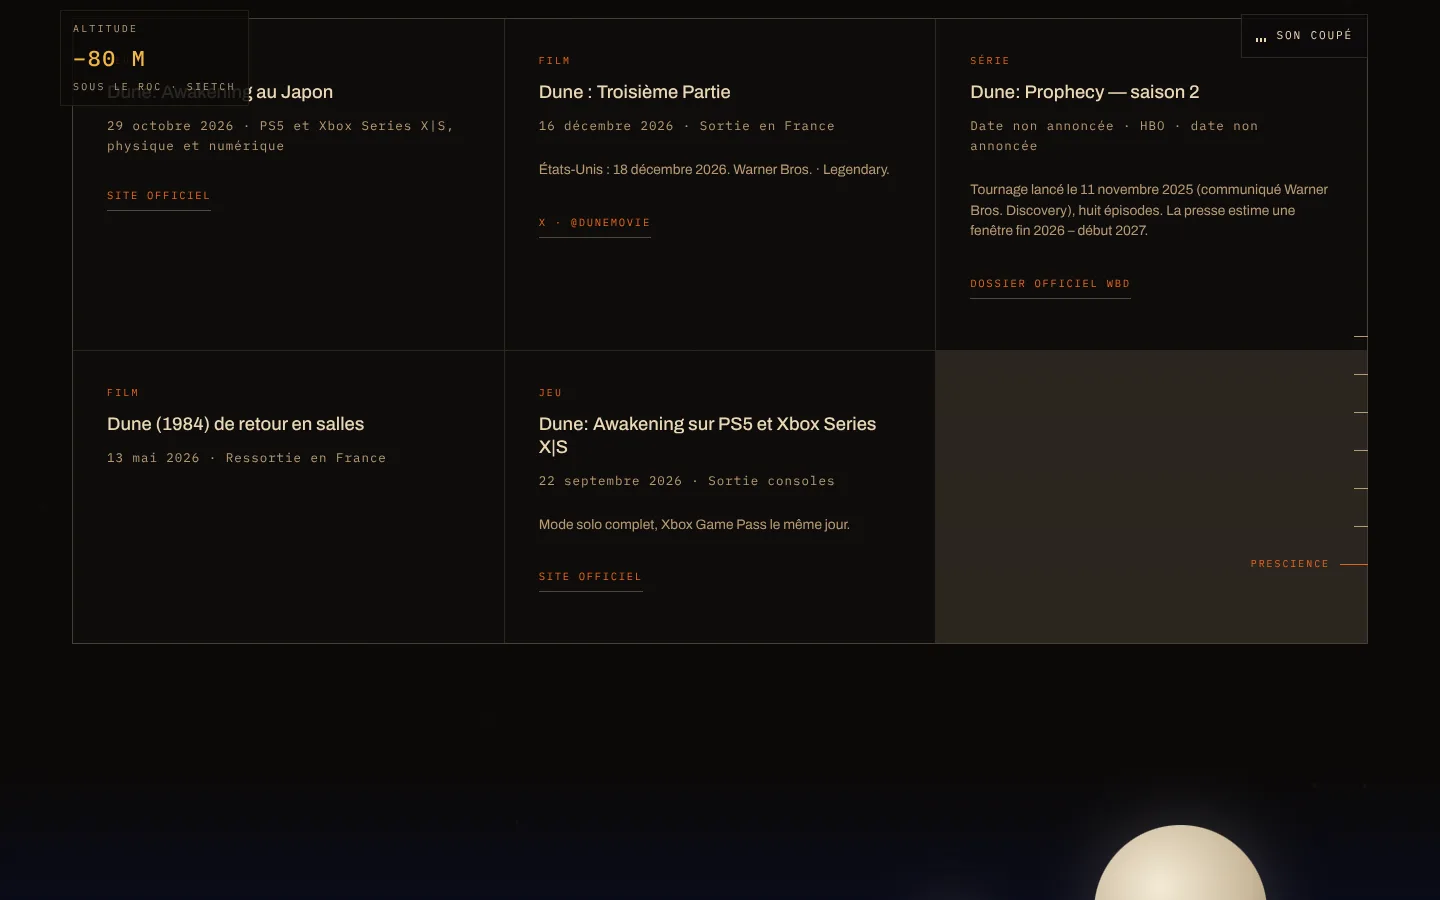
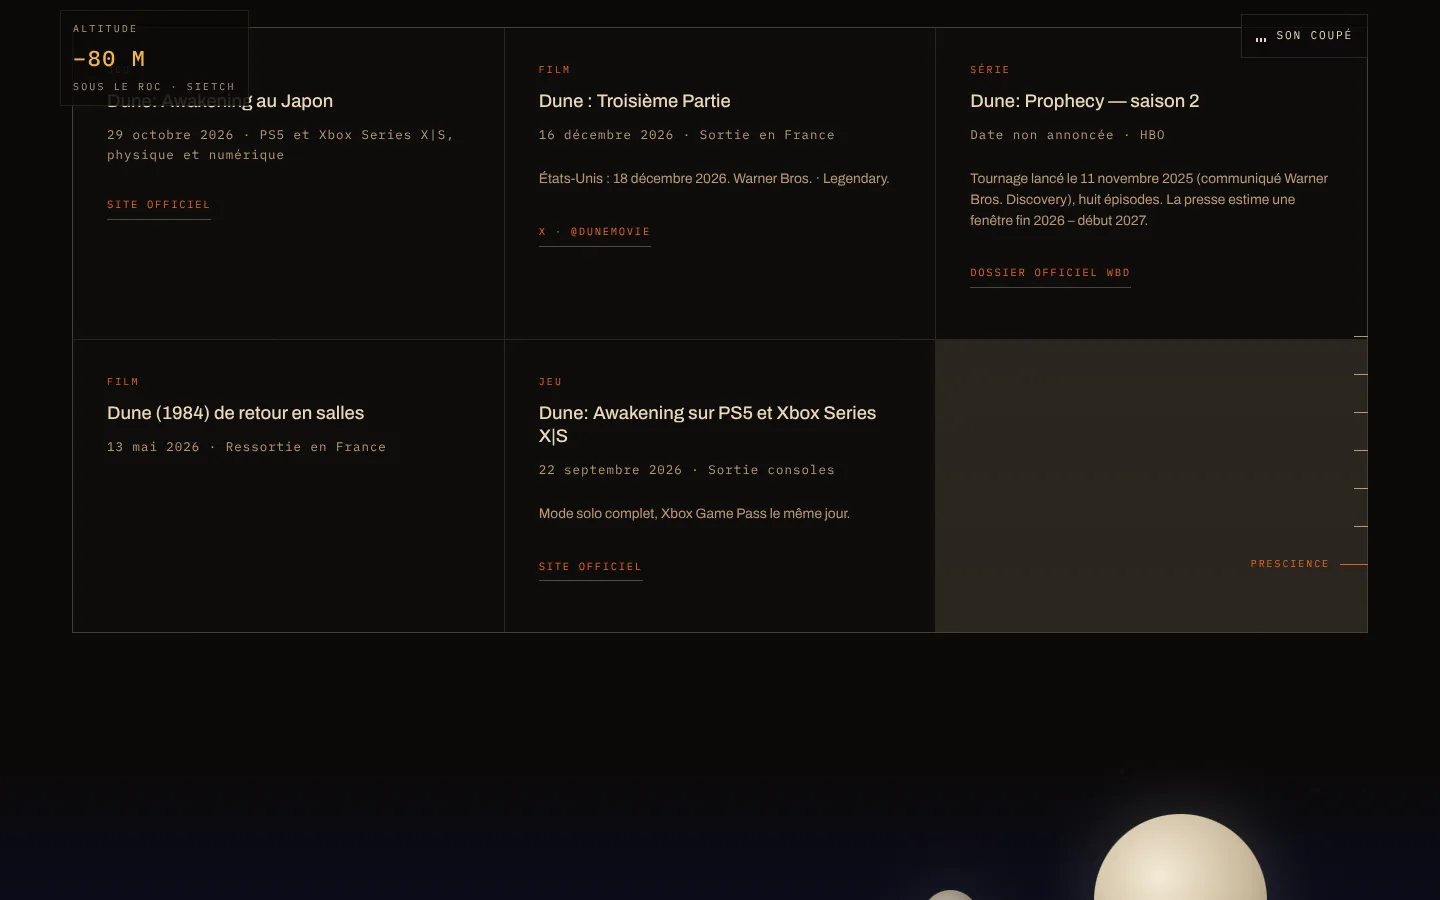
prescience : « HBO » seul dans la carte de la saison 2 (« date non annoncée » n'est plus répété) ; captures Maisons et Prescience refaites
Claude-Session: https://claude.ai/code/session_01U1pct5BcuW4HXt57W7n8JT

diff --git a/src/content/sietch.ts b/src/content/sietch.ts
@@ -264,7 +264,7 @@ export type Release = {
 export const RELEASES: Release[] = [
   { id: "dune-3", kind: "Film", title: "Dune : Troisième Partie", date: "2026-12-16", where: "Sortie en France", note: "États-Unis : 18 décembre 2026. Warner Bros. · Legendary.", links: [{ label: "X · @dunemovie", href: "https://x.com/dunemovie" }] },
   { id: "awakening-japon", kind: "Jeu", title: "Dune: Awakening au Japon", date: "2026-10-29", where: "PS5 et Xbox Series X|S, physique et numérique", links: [{ label: "Site officiel", href: "https://duneawakening.com" }] },
-  { id: "prophecy-s2", kind: "Série", title: "Dune: Prophecy — saison 2", date: null, where: "HBO · date non annoncée", note: "Tournage lancé le 11 novembre 2025 (communiqué Warner Bros. Discovery), huit épisodes. La presse estime une fenêtre fin 2026 – début 2027.", links: [{ label: "Dossier officiel WBD", href: "https://press.wbd.com/na/property/dune-prophecy" }] },
+  { id: "prophecy-s2", kind: "Série", title: "Dune: Prophecy — saison 2", date: null, where: "HBO", note: "Tournage lancé le 11 novembre 2025 (communiqué Warner Bros. Discovery), huit épisodes. La presse estime une fenêtre fin 2026 – début 2027.", links: [{ label: "Dossier officiel WBD", href: "https://press.wbd.com/na/property/dune-prophecy" }] },
   { id: "awakening-consoles", kind: "Jeu", title: "Dune: Awakening sur PS5 et Xbox Series X|S", date: "2026-09-22", where: "Sortie consoles", note: "Mode solo complet, Xbox Game Pass le même jour.", links: [{ label: "Site officiel", href: "https://duneawakening.com" }] },
   { id: "lynch-reprise", kind: "Film", title: "Dune (1984) de retour en salles", date: "2026-05-13", where: "Ressortie en France" },
 ];
